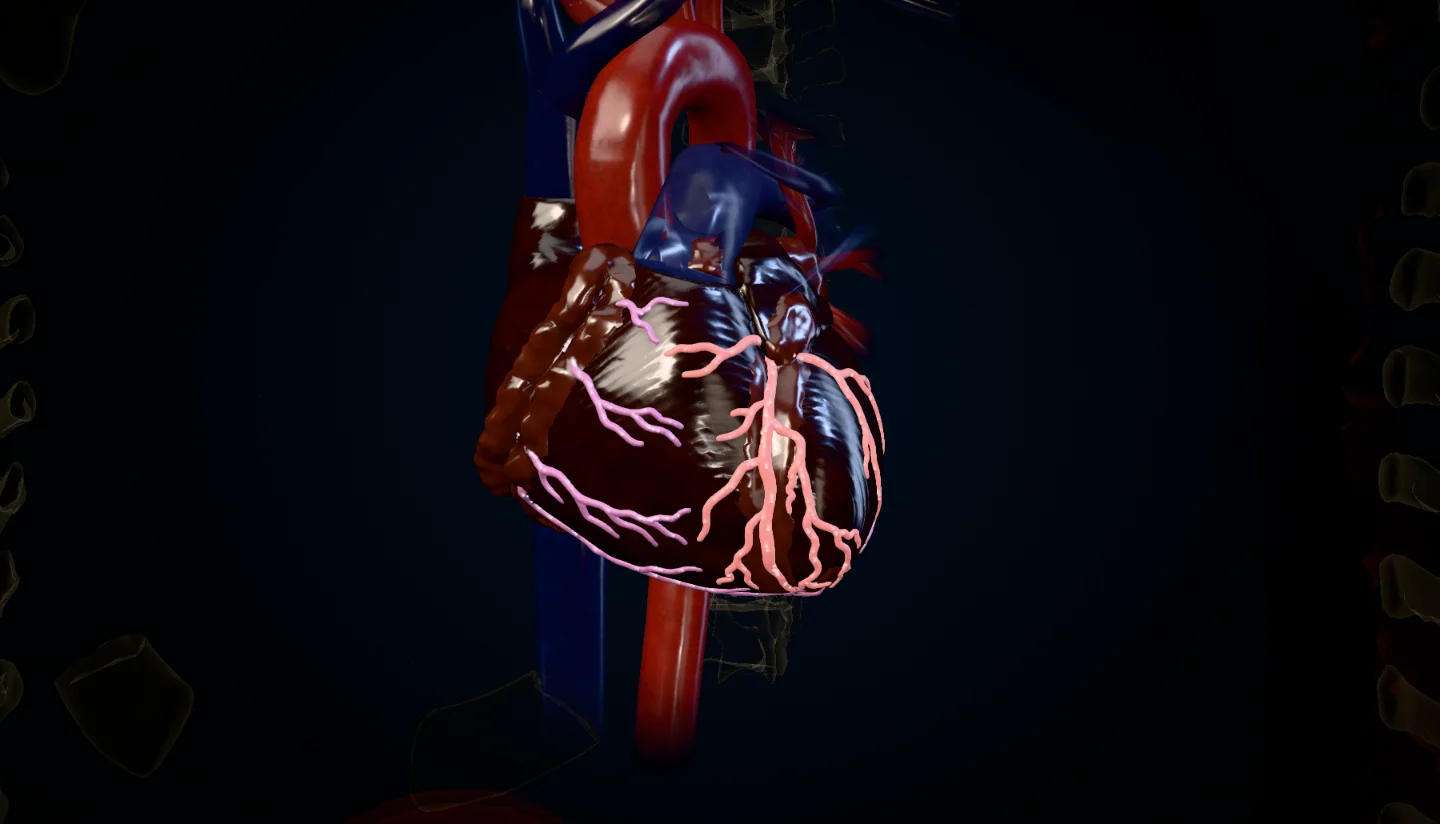
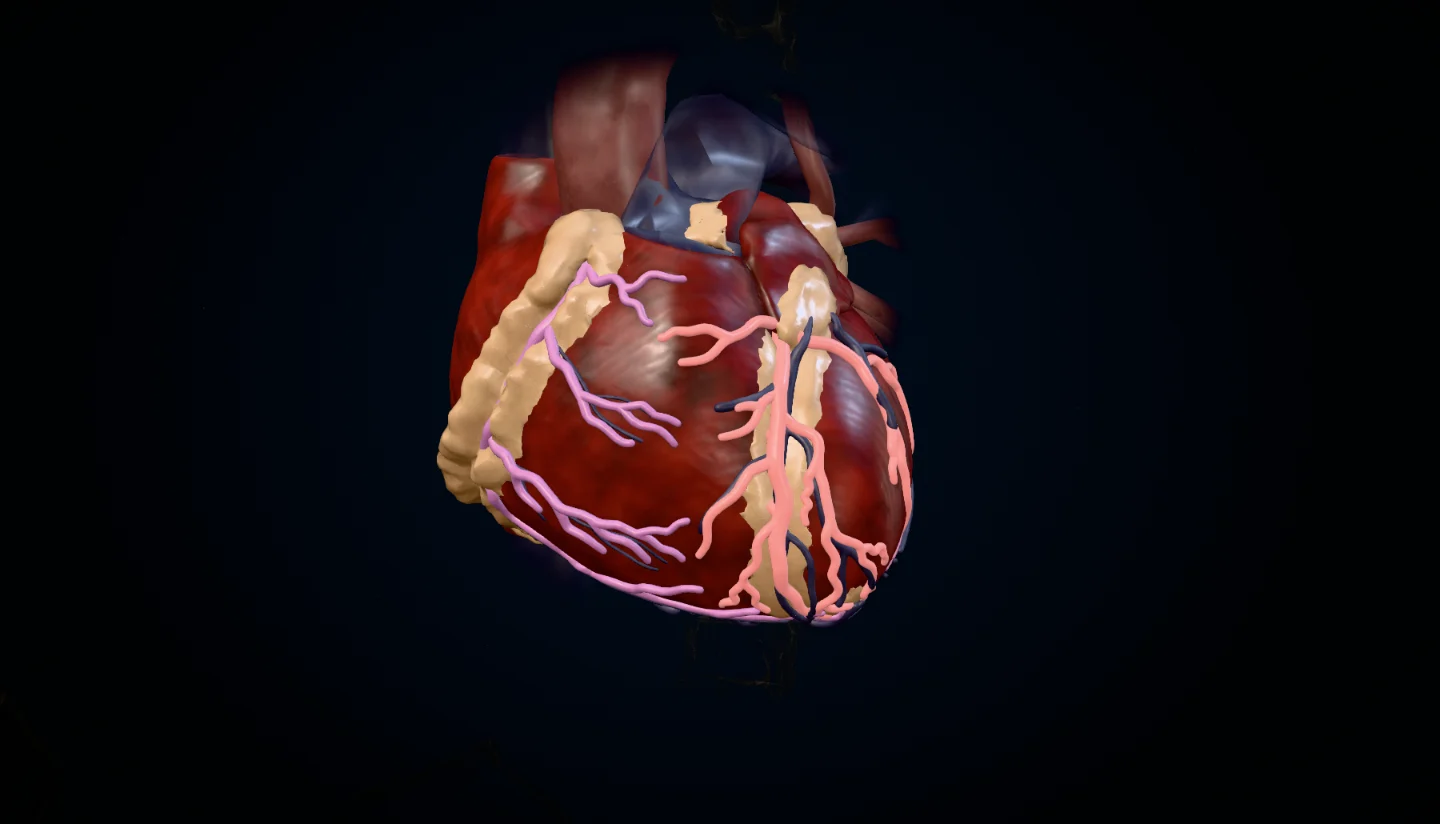
fix(3d): re-render the stage posters in the new look at each stage size (workstation 1440×824 and 1280×656, landing hero 1440 and 1280), pick them by slot width, give the hero a real still instead of an empty gradient, and snap to the silhouette framing before the first frame so the crossfade never 

diff --git a/frontend/src/three/CanvasSlot.tsx b/frontend/src/three/CanvasSlot.tsx
@@ -6,6 +6,7 @@ import { cn } from '@/lib/cn';
 import { assetUrl } from '@/services/staticData';
 import { useViewerStore, type Stage } from '@/state/viewerStore';
 import { useCameraState } from './camera/cameraState';
+import { posterFor } from './posters';
 import { useSceneSlot } from './sceneSlot';
 
 export interface CanvasSlotProps {
@@ -15,8 +16,8 @@ export interface CanvasSlotProps {
   children?: ReactNode;
   className?: string;
   /**
-   * Painted under the canvas until WebGL draws its first frame with anatomy (no blank flash). The
-   * workstation defaults to its poster (`public/posters/workstation.webp`, V2 §5.18).
+   * Painted under the canvas until WebGL draws its first frame with anatomy (no blank flash), beneath the
+   * stage's own still (`POSTERS`, V2 §5.18) — e.g. the landing's backdrop gradient.
    */
   placeholder?: ReactNode;
 }
@@ -27,24 +28,22 @@ const CROSSFADE_MS = 300;
 const LOADER_DELAY_MS = 200;
 const LOADER_MIN_MS = 400;
 
-/** The workstation poster: a still of the live canvas at the workstation home pose (≤ 120 KB). */
+/** The workstation poster at 1440 (also the route fallback's). */
 export const WORKSTATION_POSTER = 'posters/workstation.webp';
 
-function WorkstationPoster() {
-  const [failed, setFailed] = useState(false);
+function StagePoster({ src }: { src: string }) {
+  const [failed, setFailed] = useState<string | null>(null);
+  if (failed === src) return null;
   return (
-    <div aria-hidden className="absolute inset-0 bg-void">
-      {!failed && (
-        <img
-          src={assetUrl(WORKSTATION_POSTER)}
-          alt=""
-          decoding="async"
-          draggable={false}
-          onError={() => setFailed(true)}
-          className="h-full w-full select-none object-cover"
-        />
-      )}
-    </div>
+    <img
+      src={assetUrl(src)}
+      alt=""
+      aria-hidden
+      decoding="async"
+      draggable={false}
+      onError={() => setFailed(src)}
+      className="absolute inset-0 h-full w-full select-none object-cover"
+    />
   );
 }
 
@@ -141,7 +140,19 @@ export function CanvasSlot({ stage, children, className, placeholder }: CanvasSl
   const tier = useViewerStore((s) => s.tier);
   const reduced = useIsReducedMotion();
   const ready = firstFrame || tier === 'D';
-  const poster = placeholder ?? (stage === 'workstation' ? <WorkstationPoster /> : null);
+  // The stage's still (for this slot's size) over the page's own placeholder (the landing's backdrop).
+  const [width, setWidth] = useState(() => (typeof window !== 'undefined' ? window.innerWidth : 1440));
+  const rootRef = useRef<HTMLDivElement>(null);
+  useLayoutEffect(() => {
+    const w = rootRef.current?.getBoundingClientRect().width ?? 0;
+    if (w > 0) setWidth(w);
+  }, []);
+  const poster = (
+    <div aria-hidden className="absolute inset-0 bg-void">
+      {placeholder}
+      <StagePoster src={posterFor(stage, width)} />
+    </div>
+  );
   // Keep the poster under the canvas until the crossfade has finished, then drop it.
   const [posterGone, setPosterGone] = useState(ready);
   useEffect(() => {
@@ -158,8 +169,8 @@ export function CanvasSlot({ stage, children, className, placeholder }: CanvasSl
   }, [stage, register, unregister]);
 
   return (
-    <div className={cn('relative isolate overflow-hidden bg-void', className)}>
-      {poster && !posterGone && <div className="absolute inset-0">{poster}</div>}
+    <div ref={rootRef} className={cn('relative isolate overflow-hidden bg-void', className)}>
+      {!posterGone && poster}
       <div
         ref={ref}
         data-ready={ready}

diff --git a/frontend/src/three/SceneHost.tsx b/frontend/src/three/SceneHost.tsx
@@ -15,24 +15,27 @@ if (host) {
 }
 
 /**
- * Dev helper for re-rendering the workstation poster (`public/posters/workstation.webp`, V2 §5.18): open
- * the workstation at 1440×900 with nothing selected, let the heart settle, then in the console
+ * Dev helper for re-rendering the stage stills (`public/posters/*.webp`, see posters.ts; V2 §5.18): open the
+ * page at the poster's viewport (1440×900 or 1280×720) with nothing selected, let the heart settle, then
+ * in the console
  *   const blob = await __ctPoster(); open(URL.createObjectURL(blob))
- * and save the image. It draws the next rendered frame at 1440×824 (the stage size, view offset included).
+ * and save the image. It renders one frame synchronously and captures the canvas at its CSS size (the
+ * stage size, view offset included), so the still matches the live first frame pixel for pixel.
  */
 function installPosterHelper(): void {
   if (!import.meta.env.DEV || typeof window === 'undefined') return;
   (window as unknown as { __ctPoster?: (quality?: number) => Promise<Blob | null> }).__ctPoster = (quality = 0.86) =>
     new Promise((resolve) => {
-      requestAnimationFrame(() => {
-        const canvas = host?.querySelector('canvas');
-        if (!canvas) return resolve(null);
-        const out = document.createElement('canvas');
-        out.width = 1440;
-        out.height = 824;
-        out.getContext('2d')?.drawImage(canvas, 0, 0, out.width, out.height);
-        out.toBlob((blob) => resolve(blob), 'image/webp', quality);
-      });
+      const canvas = host?.querySelector('canvas');
+      if (!canvas) return resolve(null);
+      const out = document.createElement('canvas');
+      out.width = Math.round(canvas.clientWidth);
+      out.height = Math.round(canvas.clientHeight);
+      // Render now and copy in the same task: the drawing buffer is not preserved across frames.
+      const step = (window as unknown as { __ct?: { frames?: (n: number, ms: number) => Promise<void> } }).__ct?.frames;
+      void step?.(1, 0);
+      out.getContext('2d')?.drawImage(canvas, 0, 0, out.width, out.height);
+      out.toBlob((blob) => resolve(blob), 'image/webp', quality);
     });
 }
 installPosterHelper();

diff --git a/frontend/src/three/camera/canvasSlot.test.tsx b/frontend/src/three/camera/canvasSlot.test.tsx
@@ -3,6 +3,7 @@ import { act, render } from '@testing-library/react';
 import { afterEach, describe, expect, it } from 'vitest';
 import { useViewerStore } from '@/state/viewerStore';
 import { CanvasSlot, WORKSTATION_POSTER } from '../CanvasSlot';
+import { posterFor } from '../posters';
 import { useCameraState } from './cameraState';
 
 afterEach(() => {
@@ -14,7 +15,7 @@ describe('CanvasSlot loading', () => {
   it('paints the workstation poster and keeps the canvas layer transparent until the first frame', () => {
     const { container } = render(<CanvasSlot stage="workstation" />);
     const poster = container.querySelector('img');
-    expect(poster?.getAttribute('src')).toContain(WORKSTATION_POSTER);
+    expect(poster?.getAttribute('src')).toMatch(/posters\/workstation(-1280)?\.webp$/);
     const layer = container.querySelector('[data-ready]') as HTMLElement;
     expect(layer.dataset.ready).toBe('false');
     expect(layer.className).toContain('opacity-0');
@@ -23,10 +24,17 @@ describe('CanvasSlot loading', () => {
     expect(layer.className).toContain('opacity-100');
   });
 
-  it('uses the page placeholder instead of the poster (landing hero)', () => {
+  it('layers the hero still over the page placeholder (landing backdrop), never a blank hero', () => {
     const { container } = render(<CanvasSlot stage="hero" placeholder={<div data-testid="hero-poster" />} />);
-    expect(container.querySelector('img')).toBeNull();
     expect(container.querySelector('[data-testid="hero-poster"]')).not.toBeNull();
+    expect(container.querySelector('img')?.getAttribute('src')).toContain('posters/hero');
+  });
+
+  it('picks the still rendered for the stage size', () => {
+    expect(posterFor('workstation', 1440)).toBe(WORKSTATION_POSTER);
+    expect(posterFor('workstation', 1280)).toBe('posters/workstation-1280.webp');
+    expect(posterFor('workstation', 1600)).toBe(WORKSTATION_POSTER);
+    expect(posterFor('hero', 1270)).toBe('posters/hero-1280.webp');
   });
 
   it('treats the 2D schematic (tier D) as drawn', () => {

diff --git a/frontend/src/three/posters.ts b/frontend/src/three/posters.ts
@@ -1,0 +1,25 @@
+import type { Stage } from '@/state/viewerStore';
+
+/**
+ * Stills of the live canvas (V2 §5.18), one per stage and stage size, each ≤ 120 KB: the workstation home
+ * pose at 1440×824 and 1280×656, and the landing hero pose at the hero's size. The slot picks the one
+ * rendered for its own width, so the poster → first-frame crossfade never jumps in size or look. Re-render
+ * them with `__ctPoster()` (SceneHost) after any change to the look or the framing.
+ */
+export const POSTERS: Readonly<Record<Exclude<Stage, 'hidden'>, readonly { width: number; src: string }[]>> = {
+  workstation: [
+    { width: 1440, src: 'posters/workstation.webp' },
+    { width: 1280, src: 'posters/workstation-1280.webp' },
+  ],
+  hero: [
+    { width: 1440, src: 'posters/hero.webp' },
+    { width: 1280, src: 'posters/hero-1280.webp' },
+  ],
+};
+/** The still rendered for the size closest to `width`. */
+export function posterFor(stage: Exclude<Stage, 'hidden'>, width: number): string {
+  const list = POSTERS[stage];
+  let best = list[0]!;
+  for (const p of list) if (Math.abs(p.width - width) < Math.abs(best.width - width)) best = p;
+  return best.src;
+}

diff --git a/frontend/src/three/camera/CameraRig.tsx b/frontend/src/three/camera/CameraRig.tsx
@@ -548,8 +548,11 @@ export function CameraRig() {
       framingVersion.current = sceneRuntime.framing.version;
       const st = stageRef.current;
       const atHome = st === 'hero' || (st === 'workstation' && useCameraState.getState().viewKind === 'home');
-      if (st !== 'hidden' && atHome && !userTouched.current && !peelOut.current && !openFit.current) flyHome(!reduced);
-      else if (st === 'workstation' && openFit.current && !userTouched.current) fitOpenHeart(!reduced);
+      // Before the first anatomy frame the poster is still up: snap, so the crossfade lands on the exact
+      // pose the poster was rendered at instead of a zoom.
+      const animate = !reduced && useCameraState.getState().firstFrame;
+      if (st !== 'hidden' && atHome && !userTouched.current && !peelOut.current && !openFit.current) flyHome(animate);
+      else if (st === 'workstation' && openFit.current && !userTouched.current) fitOpenHeart(animate);
     }
 
     // View offset: the orbit target sits at the centre of the free area; glides over `flyout`.
